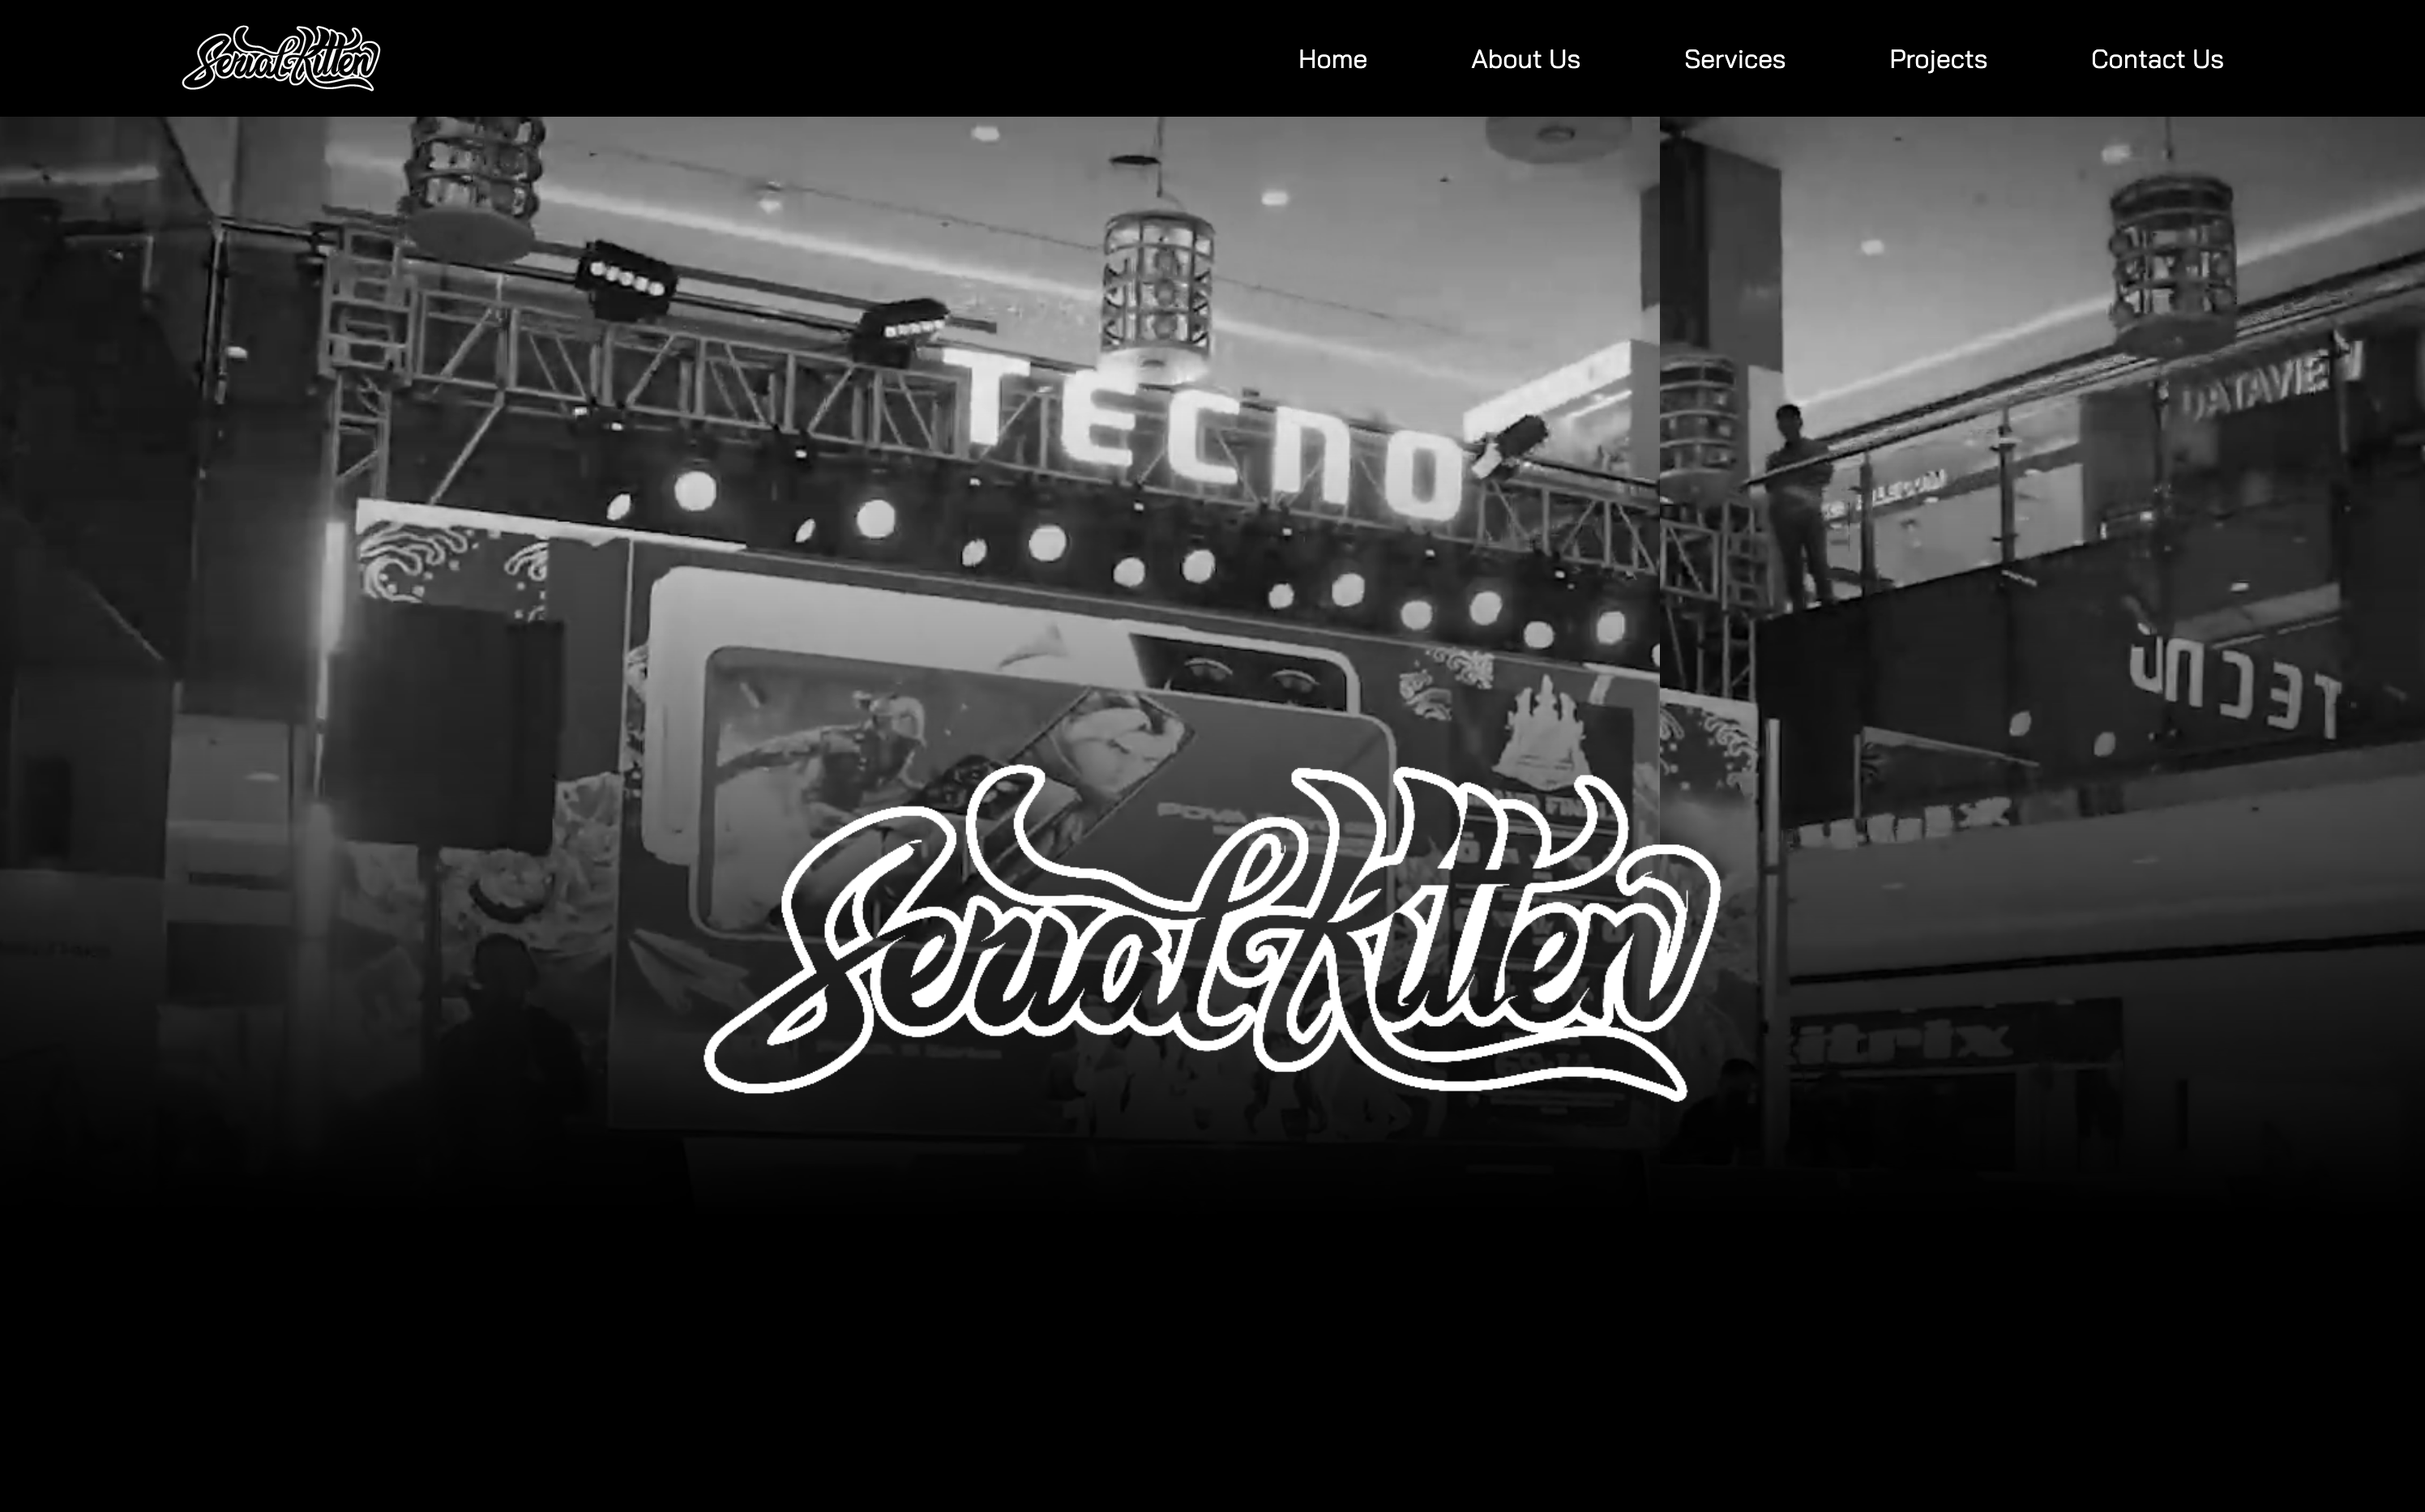
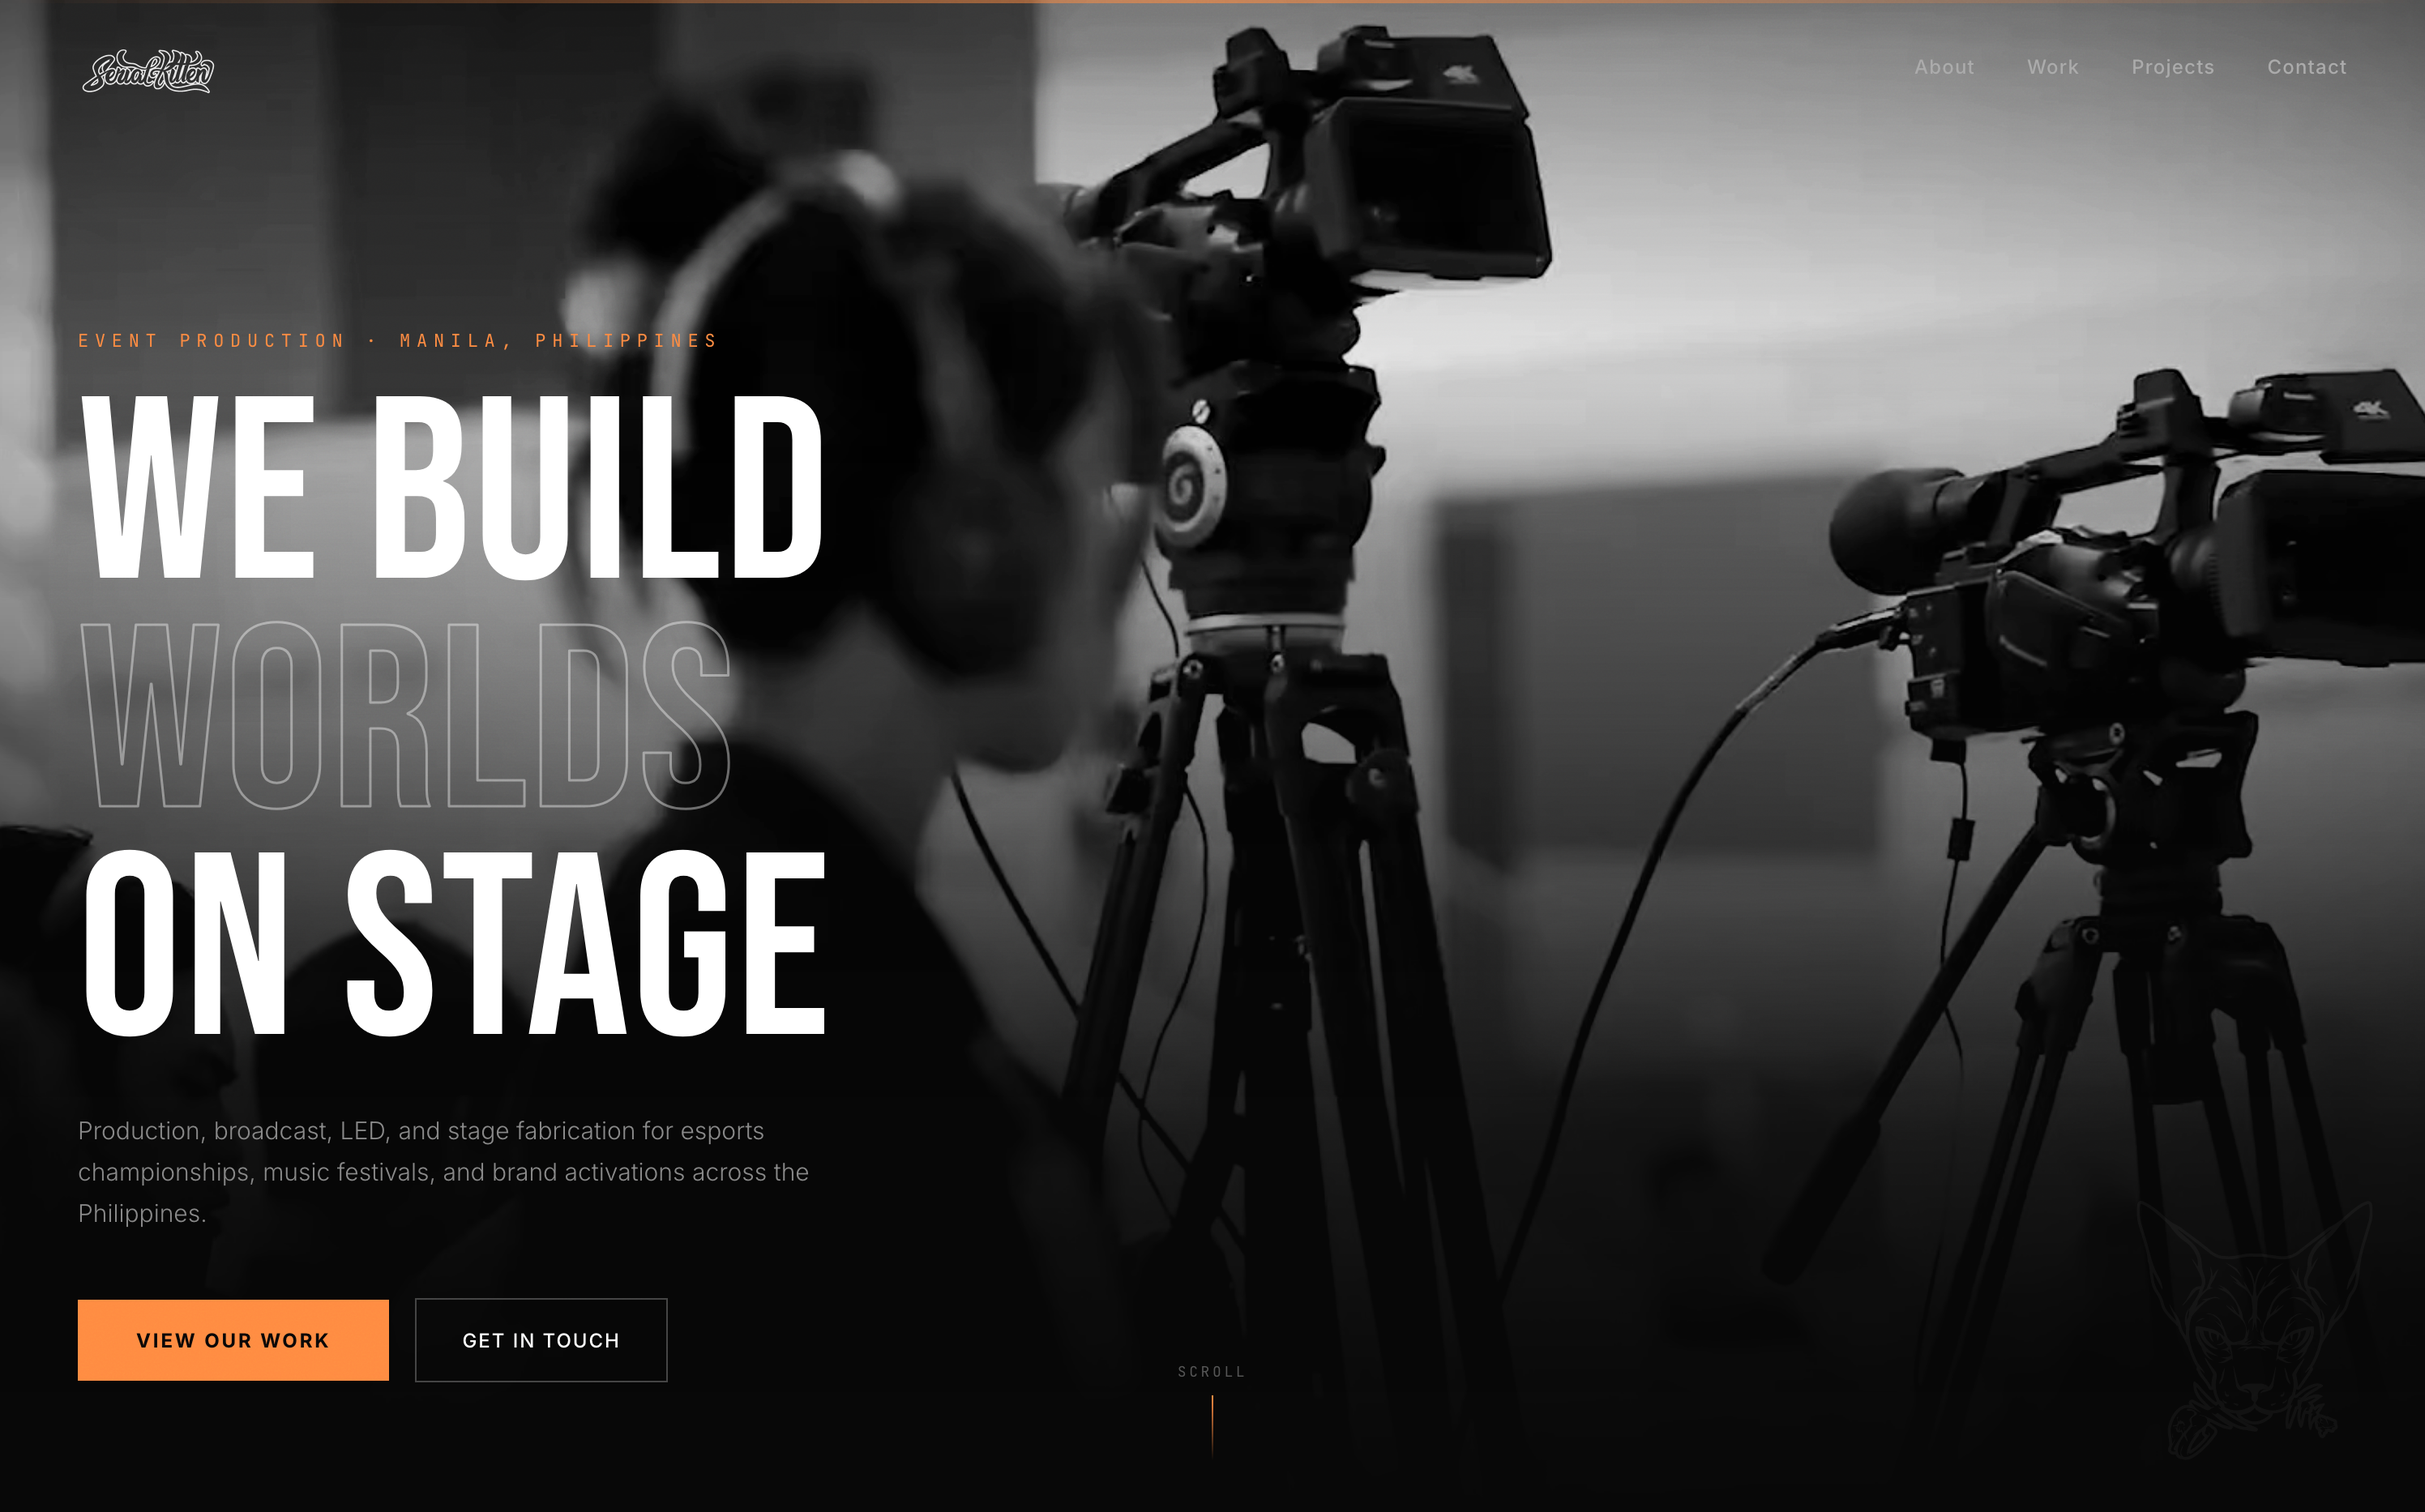
Add Wild Rounds Pilipinas Open to showcase and featured works; update Serial Kitten screenshot

diff --git a/src/lib/featured.ts b/src/lib/featured.ts
@@ -1,6 +1,6 @@
 import hopethreadsImg from '../assets/works/hopethreads.png'
 import palmsImg from '../assets/works/palms-agency-global.png'
-import serialkittenImg from '../assets/works/serialkitten.png'
+import wildRoundsImg from '../assets/works/wild-rounds-pilipinas-open.png'
 
 export interface FeaturedProject {
     title: string
@@ -14,6 +14,12 @@ export interface FeaturedProject {
 // manifest for homepage featured projects.
 export const featuredProjects: FeaturedProject[] = [
     {
+        title: "Wild Rounds Pilipinas Open",
+        image: wildRoundsImg,
+        tags: ["Website", "Event", "UI/UX Design"],
+        link: "https://wildroundspilipinasopen.com",
+    },
+    {
         title: "Hopethreads",
         image: hopethreadsImg,
         tags: ["Website", "Store", "UI/UX Design"],
@@ -24,11 +30,5 @@ export const featuredProjects: FeaturedProject[] = [
         image: palmsImg,
         tags: ["Website", "UI/UX Design"],
         link: "https://palms-agency-global.com",
-    },
-    {
-        title: "Serial Kitten",
-        image: serialkittenImg,
-        tags: ["Website", "UI/UX Design"],
-        link: "https://serialkitten.com",
     },
 ]

diff --git a/src/lib/showcase.ts b/src/lib/showcase.ts
@@ -1,6 +1,7 @@
 import hopethreadsImg from '../assets/works/hopethreads.png'
 import palmsImg from '../assets/works/palms-agency-global.png'
 import serialkittenImg from '../assets/works/serialkitten.png'
+import wildRoundsImg from '../assets/works/wild-rounds-pilipinas-open.png'
 
 export interface Project {
     title: string
@@ -13,6 +14,12 @@ export interface Project {
 // from getCollection("case-studies") instead. For now, this is the single
 // manifest for showcase projects.
 export const projects: Project[] = [
+    {
+        title: "Wild Rounds Pilipinas Open",
+        image: wildRoundsImg,
+        url: "https://wildroundspilipinasopen.com",
+        year: 2026,
+    },
     {
         title: "Hopethreads",
         image: hopethreadsImg,
